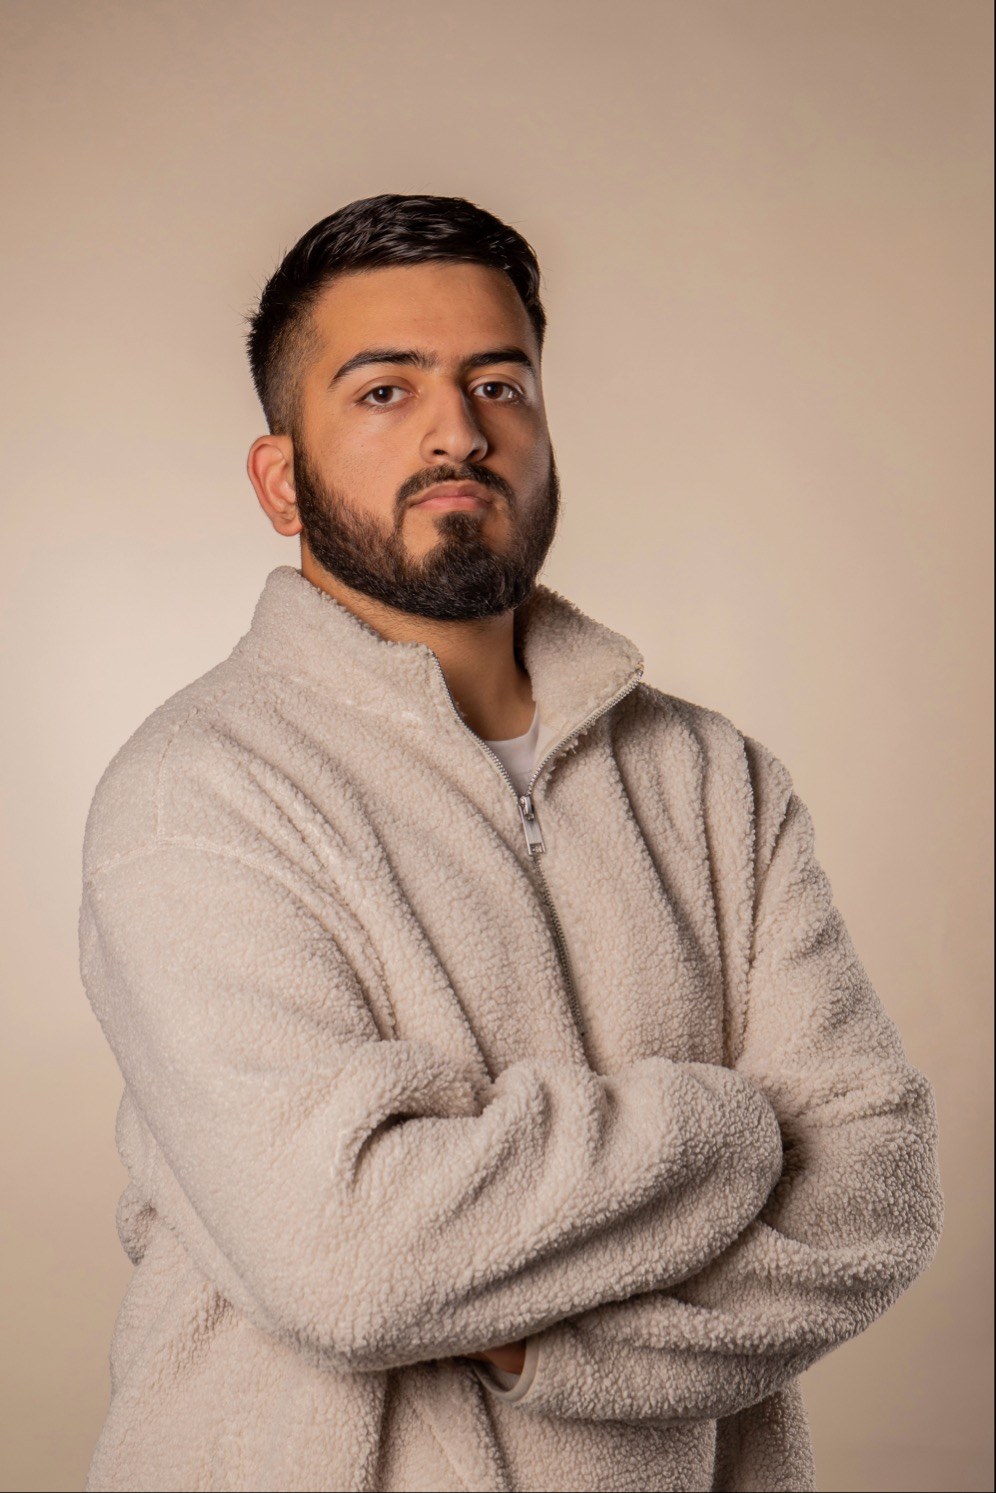
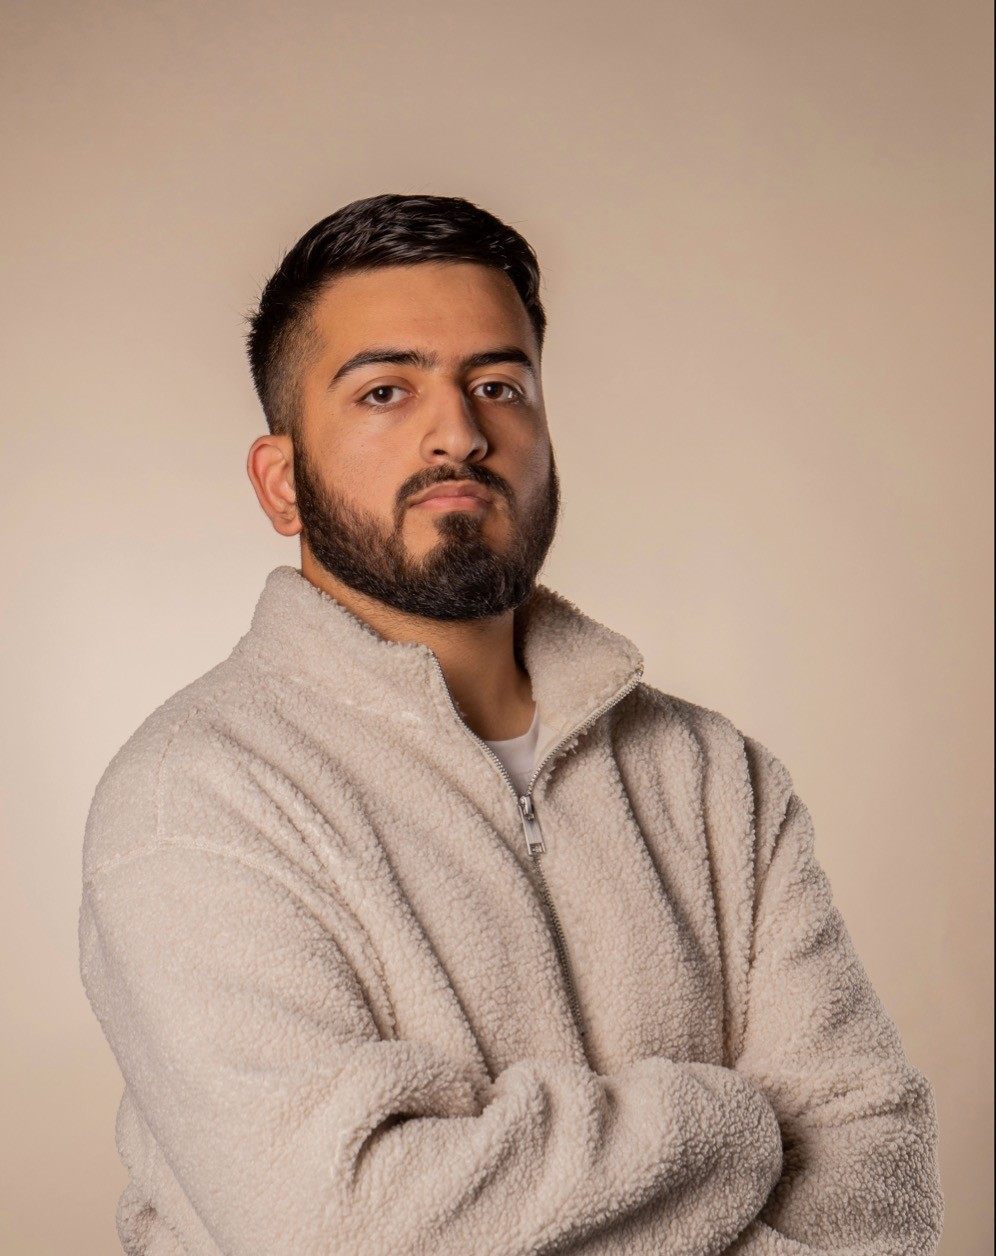
Team Page - Updated

Changed region(s): [[0.0, 0.1242, 0.996, 1.0], [0.9649, 0.8384, 1.0, 0.9005], [0.0934, 0.9005, 0.1245, 0.9315]]

diff --git a/team.html b/team.html
@@ -113,40 +113,51 @@
 
           <div class="team-grid">
             <article class="person reveal" aria-labelledby="person-tayyeb">
+              <img
+                src="./images/Tayyeb.jpg"
+                alt="Portrait of Tayyeb Nadeem Somro"
+                class="person-image"
+              />
               <span class="person-role">Founder and Programme Director</span>
               <h3 id="person-tayyeb">
                 <a
                   href="https://www.linkedin.com/in/tayyeb-nadeem-somro"
                   target="_blank"
                   rel="noopener noreferrer"
-                  ><span>Tayyeb Nadeem Somro</span
-                  ><span class="person-link-mark" aria-hidden="true"
-                    >LinkedIn</span
-                  ></a
                 >
+                  <span>Tayyeb Nadeem Somro</span>
+                  <span class="person-link-mark" aria-hidden="true"
+                    >LinkedIn</span
+                  >
+                </a>
               </h3>
               <p>
-                Cyber Security undergraduate, founder of Unihack, former
-                president of BCU Computer Science Society, and Head of Cyber
-                Security Research at BCU Cyber Security Society. He leads the
-                programme's direction with a focus on standards, execution, and
-                giving student founders a more credible route from ambition to
-                action.
+                Cyber Security Undergraduate and incoming Intern at National
+                Gas, Co-Founder of Zentic Health, Founder of Unihack. He leads
+                the programme's direction with a focus on standards, execution,
+                and giving student founders a more credible route from ambition
+                to action.
               </p>
             </article>
 
             <article class="person reveal" aria-labelledby="person-mohamed">
+              <img
+                src="./images/Dahir.jpg"
+                alt="Portrait of Mohamed Dahir"
+                class="person-image"
+              />
               <span class="person-role">Programme Delivery Lead</span>
               <h3 id="person-mohamed">
                 <a
                   href="https://www.linkedin.com/in/m-a-dahir"
                   target="_blank"
                   rel="noopener noreferrer"
-                  ><span>Mohamed Dahir</span
-                  ><span class="person-link-mark" aria-hidden="true"
-                    >LinkedIn</span
-                  ></a
                 >
+                  <span>Mohamed Dahir</span>
+                  <span class="person-link-mark" aria-hidden="true"
+                    >LinkedIn</span
+                  >
+                </a>
               </h3>
               <p>
                 Computer Science undergraduate specialising in Artificial
@@ -159,17 +170,23 @@
             </article>
 
             <article class="person reveal" aria-labelledby="person-tanzila">
+              <img
+                src="./images/Tanzila.jpg"
+                alt="Portrait of Tanzila Mudassar"
+                class="person-image"
+              />
               <span class="person-role">Head of Partnerships</span>
               <h3 id="person-tanzila">
                 <a
                   href="https://www.linkedin.com/in/tanzila-mudassar-4b82a2256"
                   target="_blank"
                   rel="noopener noreferrer"
-                  ><span>Tanzila Mudassar</span
-                  ><span class="person-link-mark" aria-hidden="true"
-                    >LinkedIn</span
-                  ></a
                 >
+                  <span>Tanzila Mudassar</span>
+                  <span class="person-link-mark" aria-hidden="true"
+                    >LinkedIn</span
+                  >
+                </a>
               </h3>
               <p>
                 Business graduate with a strong interest in strategy, growth,
@@ -182,6 +199,11 @@
             </article>
 
             <article class="person reveal" aria-labelledby="person-hamzah">
+              <img
+                src="./images/Hamzah.jpg"
+                alt="Portrait of Hamzah Abdur Rahman"
+                class="person-image"
+              />
               <span class="person-role">Head of Community Engagement</span>
               <h3 id="person-hamza">
                 <a
@@ -204,18 +226,54 @@
               </p>
             </article>
 
+            <article class="person reveal" aria-labelledby="person-yasamin">
+              <img
+                src="./images/Yasamin.jpg"
+                alt="Portrait of Yasamin Zaid"
+                class="person-image"
+              />
+              <span class="person-role">Software Engineer</span>
+              <h3 id="person-yasamin">
+                <a
+                  href="https://www.linkedin.com/in/yasaminzaid"
+                  target="_blank"
+                  rel="noopener noreferrer"
+                >
+                  <span>Yasamin Zaid</span>
+                  <span class="person-link-mark" aria-hidden="true"
+                    >LinkedIn</span
+                  >
+                </a>
+              </h3>
+              <p>
+                Computer Science undergraduate with a strong interest in
+                software engineering and developing high-quality applications.
+                She was part of a team that achieved 2nd place at the BCU
+                Innovation Fest, demonstrating her ability to work on creative
+                technical projects and collaborative solutions. She brings a
+                motivated, detail-focused approach to her work at BCU Innovation
+                Labs.
+              </p>
+            </article>
+
             <article class="person reveal" aria-labelledby="person-baber">
+              <img
+                src="./images/Baber.jpeg"
+                alt="Portrait of Baber Khan"
+                class="person-image"
+              />
               <span class="person-role">Web Platform Engineer</span>
               <h3 id="person-baber">
                 <a
                   href="https://www.linkedin.com/in/baberr"
                   target="_blank"
                   rel="noopener noreferrer"
-                  ><span>Baber Khan</span
-                  ><span class="person-link-mark" aria-hidden="true"
-                    >LinkedIn</span
-                  ></a
                 >
+                  <span>Baber Khan</span>
+                  <span class="person-link-mark" aria-hidden="true"
+                    >LinkedIn</span
+                  >
+                </a>
               </h3>
               <p>
                 Computer Science undergraduate focused on building robust,
@@ -227,17 +285,23 @@
             </article>
 
             <article class="person reveal" aria-labelledby="person-mhamza">
+              <img
+                src="./images/Hamza.jpg"
+                alt="Portrait of Mohammad Hamza"
+                class="person-image"
+              />
               <span class="person-role">Software Engineer</span>
               <h3 id="person-mhamza">
                 <a
                   href="https://www.linkedin.com/in/mohammad-hamza-97729322b"
                   target="_blank"
                   rel="noopener noreferrer"
-                  ><span>Mohammad Hamza</span
-                  ><span class="person-link-mark" aria-hidden="true"
-                    >LinkedIn</span
-                  ></a
                 >
+                  <span>Mohammad Hamza</span>
+                  <span class="person-link-mark" aria-hidden="true"
+                    >LinkedIn</span
+                  >
+                </a>
               </h3>
               <p>
                 Cyber Security undergraduate with a strong interest in
@@ -246,33 +310,6 @@
                 Outlier, and also serves as Social Media Manager at BCU Cyber
                 Security Society, giving him a useful view across both technical
                 and audience-facing work.
-              </p>
-            </article>
-
-            <article class="person reveal" aria-labelledby="person-yasamin">
-              <span class="person-role">Software Engineer</span>
-              <h3 id="person-yasamin">
-                <a
-                  href="https://www.linkedin.com/in/yasaminzaid"
-                  target="_blank"
-                  rel="noopener noreferrer"
-                  ><span>Yasamin Zaid</span
-                  ><span class="person-link-mark" aria-hidden="true"
-                    >LinkedIn</span
-                  ></a
-                >
-              </h3>
-              <p>
-                Computer Science undergraduate with a strong interest in
-                software engineering and developing high-quality applications.
-                She was part of a team that achieved 2nd place at the BCU
-                Innovation Fest, demonstrating her ability to work on creative
-                technical projects and collaborative solutions. She has also
-                been selected as Secretary of the BCU Computing Society for the
-                upcoming academic year, reflecting her active involvement and
-                leadership within the computing community. She brings a
-                motivated, detail-focused approach to her work at BCU Innovation
-                Labs.
               </p>
             </article>
           </div>

diff --git a/style.css b/style.css
@@ -1275,6 +1275,16 @@ main {
 }
 
 /* ── Team (team.html) ────────────────────────────────────── */
+.person-image {
+  width: 110px;
+  height: 110px;
+  object-fit: cover;
+  border-radius: 50%;
+  display: block;
+  margin-bottom: 1rem;
+  border: 2px solid rgba(255, 255, 255, 0.12);
+  box-shadow: 0 10px 24px rgba(0, 0, 0, 0.18);
+}
 
 .team-grid {
   display: grid;
